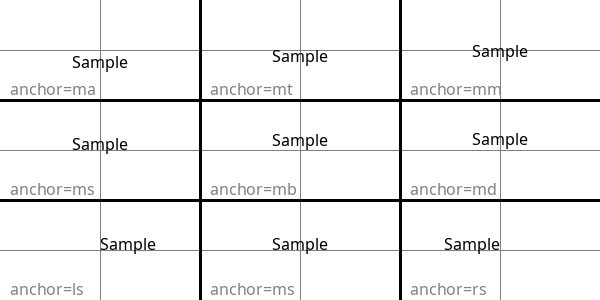
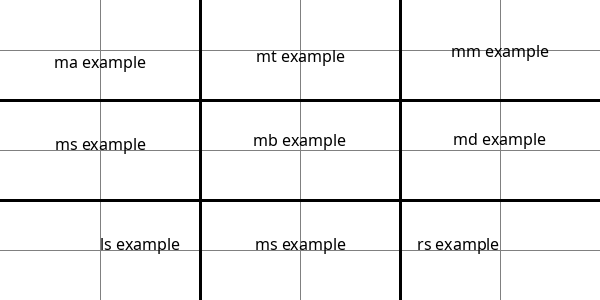
simplify anchor example image

diff --git a/docs/example/anchors.py b/docs/example/anchors.py
@@ -8,8 +8,7 @@ def test(anchor):
     d = ImageDraw.Draw(im)
     d.line(((100, 0), (100, 100)), "gray")
     d.line(((0, 50), (200, 50)), "gray")
-    d.text((100, 50), "Sample", "black", font, anchor)
-    d.text((10, 100), "anchor=%s" % anchor, "gray", font, "ld")
+    d.text((100, 50), f"{anchor} example", "black", font, anchor)
     return im
 
 
